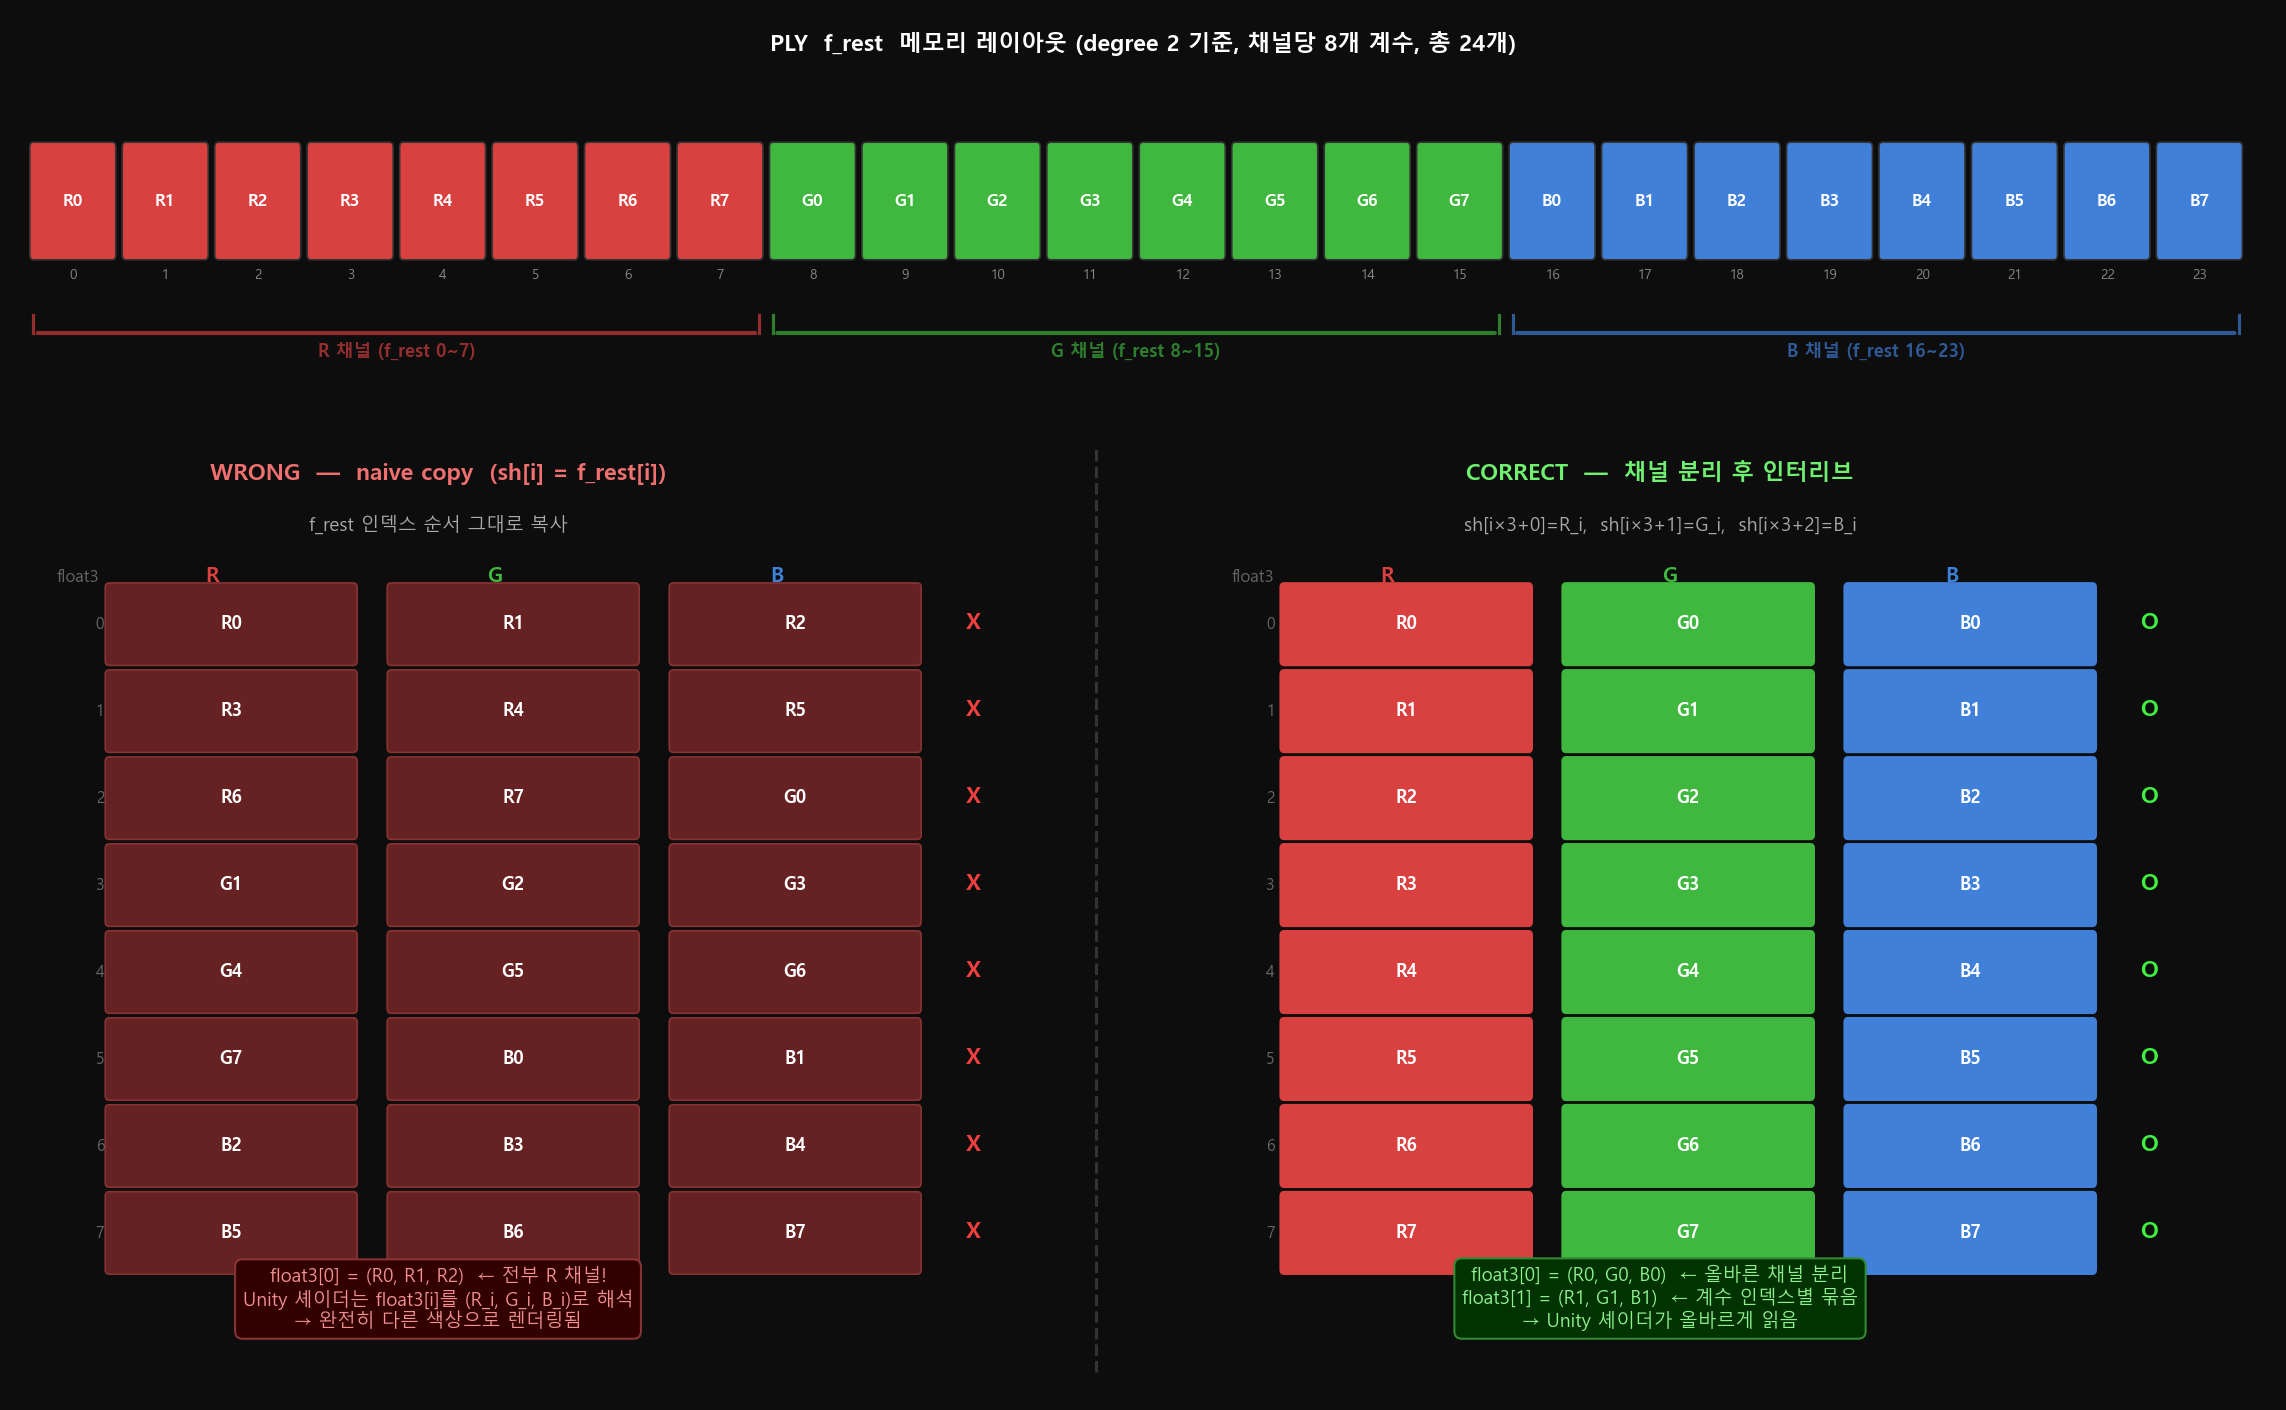
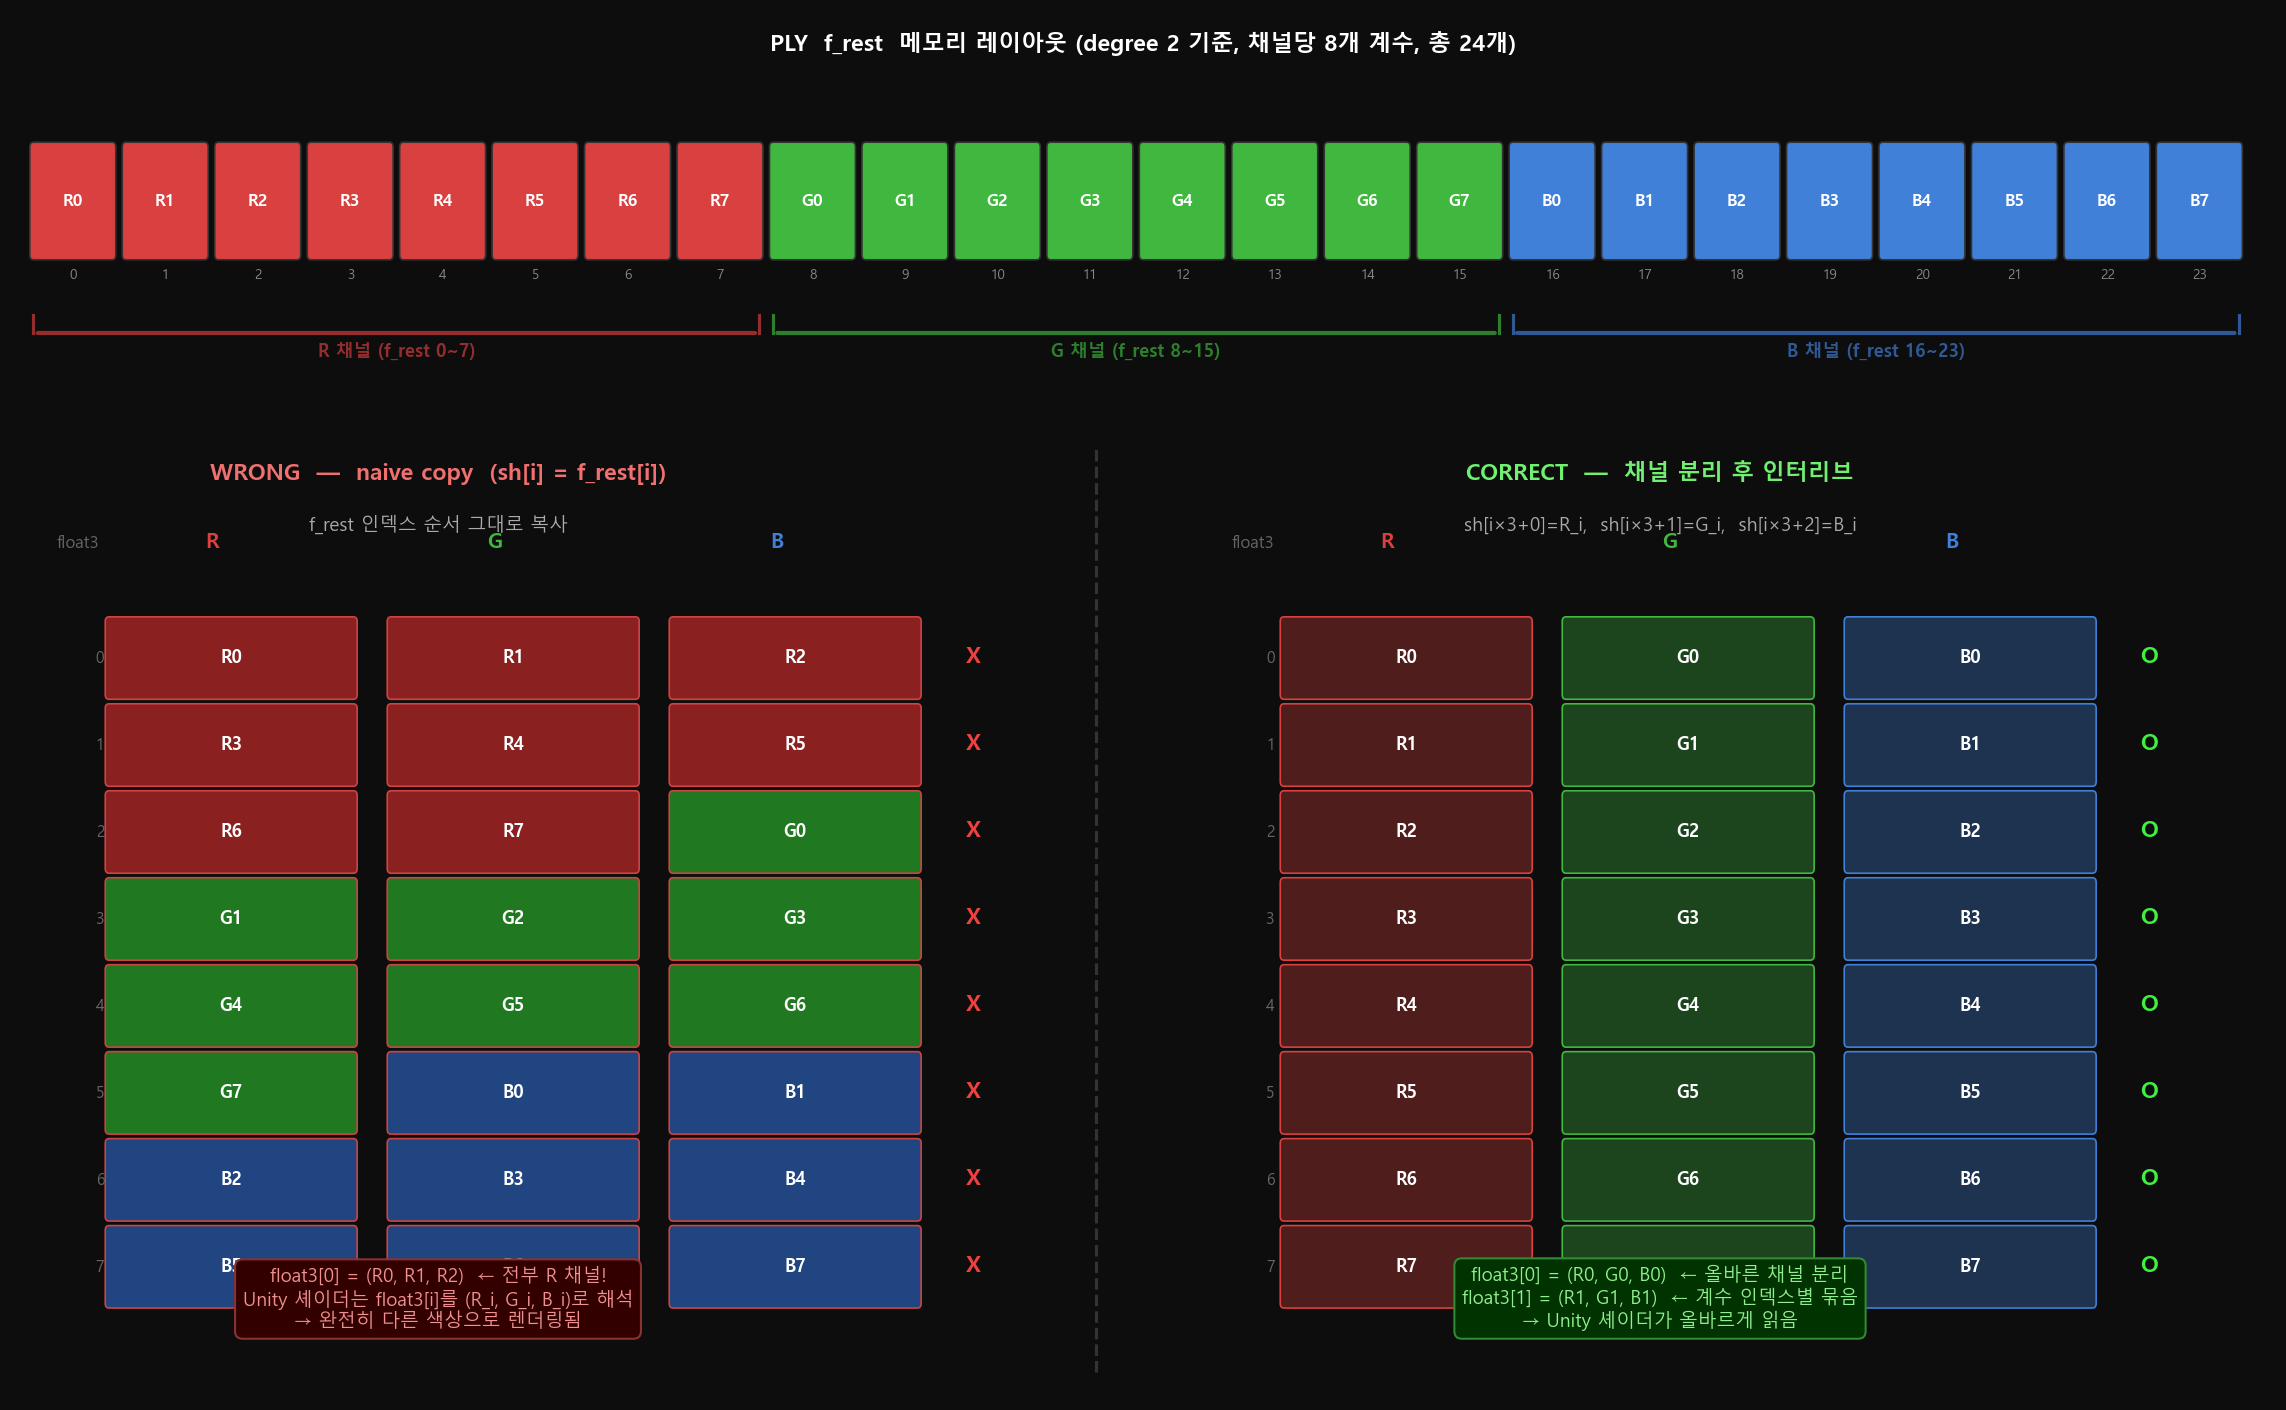
viz: fix sh_layout_mismatch - color cells by actual channel in WRONG section
- Each cell in WRONG section now shows its real channel color (R=dark red, G=dark green, B=dark blue)
  with red border to indicate wrong placement, instead of uniform dark red
- Moved R/G/B column headers up to avoid overlap with cells

diff --git a/gaussian_visualization/sh_layout_mismatch.py b/gaussian_visualization/sh_layout_mismatch.py
@@ -65,25 +65,34 @@ ax2.text(17.5, 7.65, 'sh[i×3+0]=R_i,  sh[i×3+1]=G_i,  sh[i×3+2]=B_i',
 
 ax2.plot([11.5, 11.5], [0.2, 8.4], color='#333', lw=1.5, ls='--')
 
+# R/G/B 컬럼 헤더 — 셀과 겹치지 않게 위로
 for base_x in [1.0, 13.5]:
     for ci, (ch, col) in enumerate([('R', C_R), ('G', C_G), ('B', C_B)]):
-        ax2.text(base_x + ci*3.0 + 1.1, 7.2, ch,
+        ax2.text(base_x + ci*3.0 + 1.1, 7.5, ch,
                  ha='center', fontsize=10, color=col, fontweight='bold')
-    ax2.text(base_x - 0.1, 7.2, 'float3', ha='right', fontsize=8, color='#666')
+    ax2.text(base_x - 0.1, 7.5, 'float3', ha='right', fontsize=8, color='#666')
+
+# 채널 인덱스로 실제 채널 색상 반환
+def ch_color_dark(label_idx):
+    if label_idx < 8:   return '#8b2020'   # R 채널 (어두운 빨강)
+    if label_idx < 16:  return '#207820'   # G 채널 (어두운 초록)
+    return               '#204580'         # B 채널 (어두운 파랑)
 
 # WRONG: 나이브 복사 시 float3[i] = (R_{3i}, R_{3i+1}, R_{3i+2})
+# 각 셀은 실제 채널 색으로 칠하되 빨간 테두리로 오류 표시
 for ri in range(8):
     base = ri * 3
-    y = 6.5 - ri * 0.77
+    y = 6.2 - ri * 0.77
     ax2.text(0.95, y+0.28, f'{ri}', ha='right', fontsize=7.5, color='#666')
     for ci in range(3):
-        rect(ax2, 1.0 + ci*3.0, y, 2.6, 0.65, C_WRONG, ec='#883333',
-             txt=LABELS[base+ci], fs=8.5, bold=True)
+        idx = base + ci
+        rect(ax2, 1.0 + ci*3.0, y, 2.6, 0.65, ch_color_dark(idx), ec='#cc4444',
+             txt=LABELS[idx], fs=8.5, bold=True)
     ax2.text(10.2, y+0.28, 'X', ha='center', fontsize=11, color='#f04040', fontweight='bold')
 
 # CORRECT: float3[i] = (R_i, G_i, B_i)
 for ri in range(8):
-    y = 6.5 - ri * 0.77
+    y = 6.2 - ri * 0.77
     ax2.text(13.4, y+0.28, f'{ri}', ha='right', fontsize=7.5, color='#666')
     for ci, (ch, col) in enumerate([(f'R{ri}', C_R), (f'G{ri}', C_G), (f'B{ri}', C_B)]):
         rect(ax2, 13.5 + ci*3.0, y, 2.6, 0.65, col+'55', ec=col,